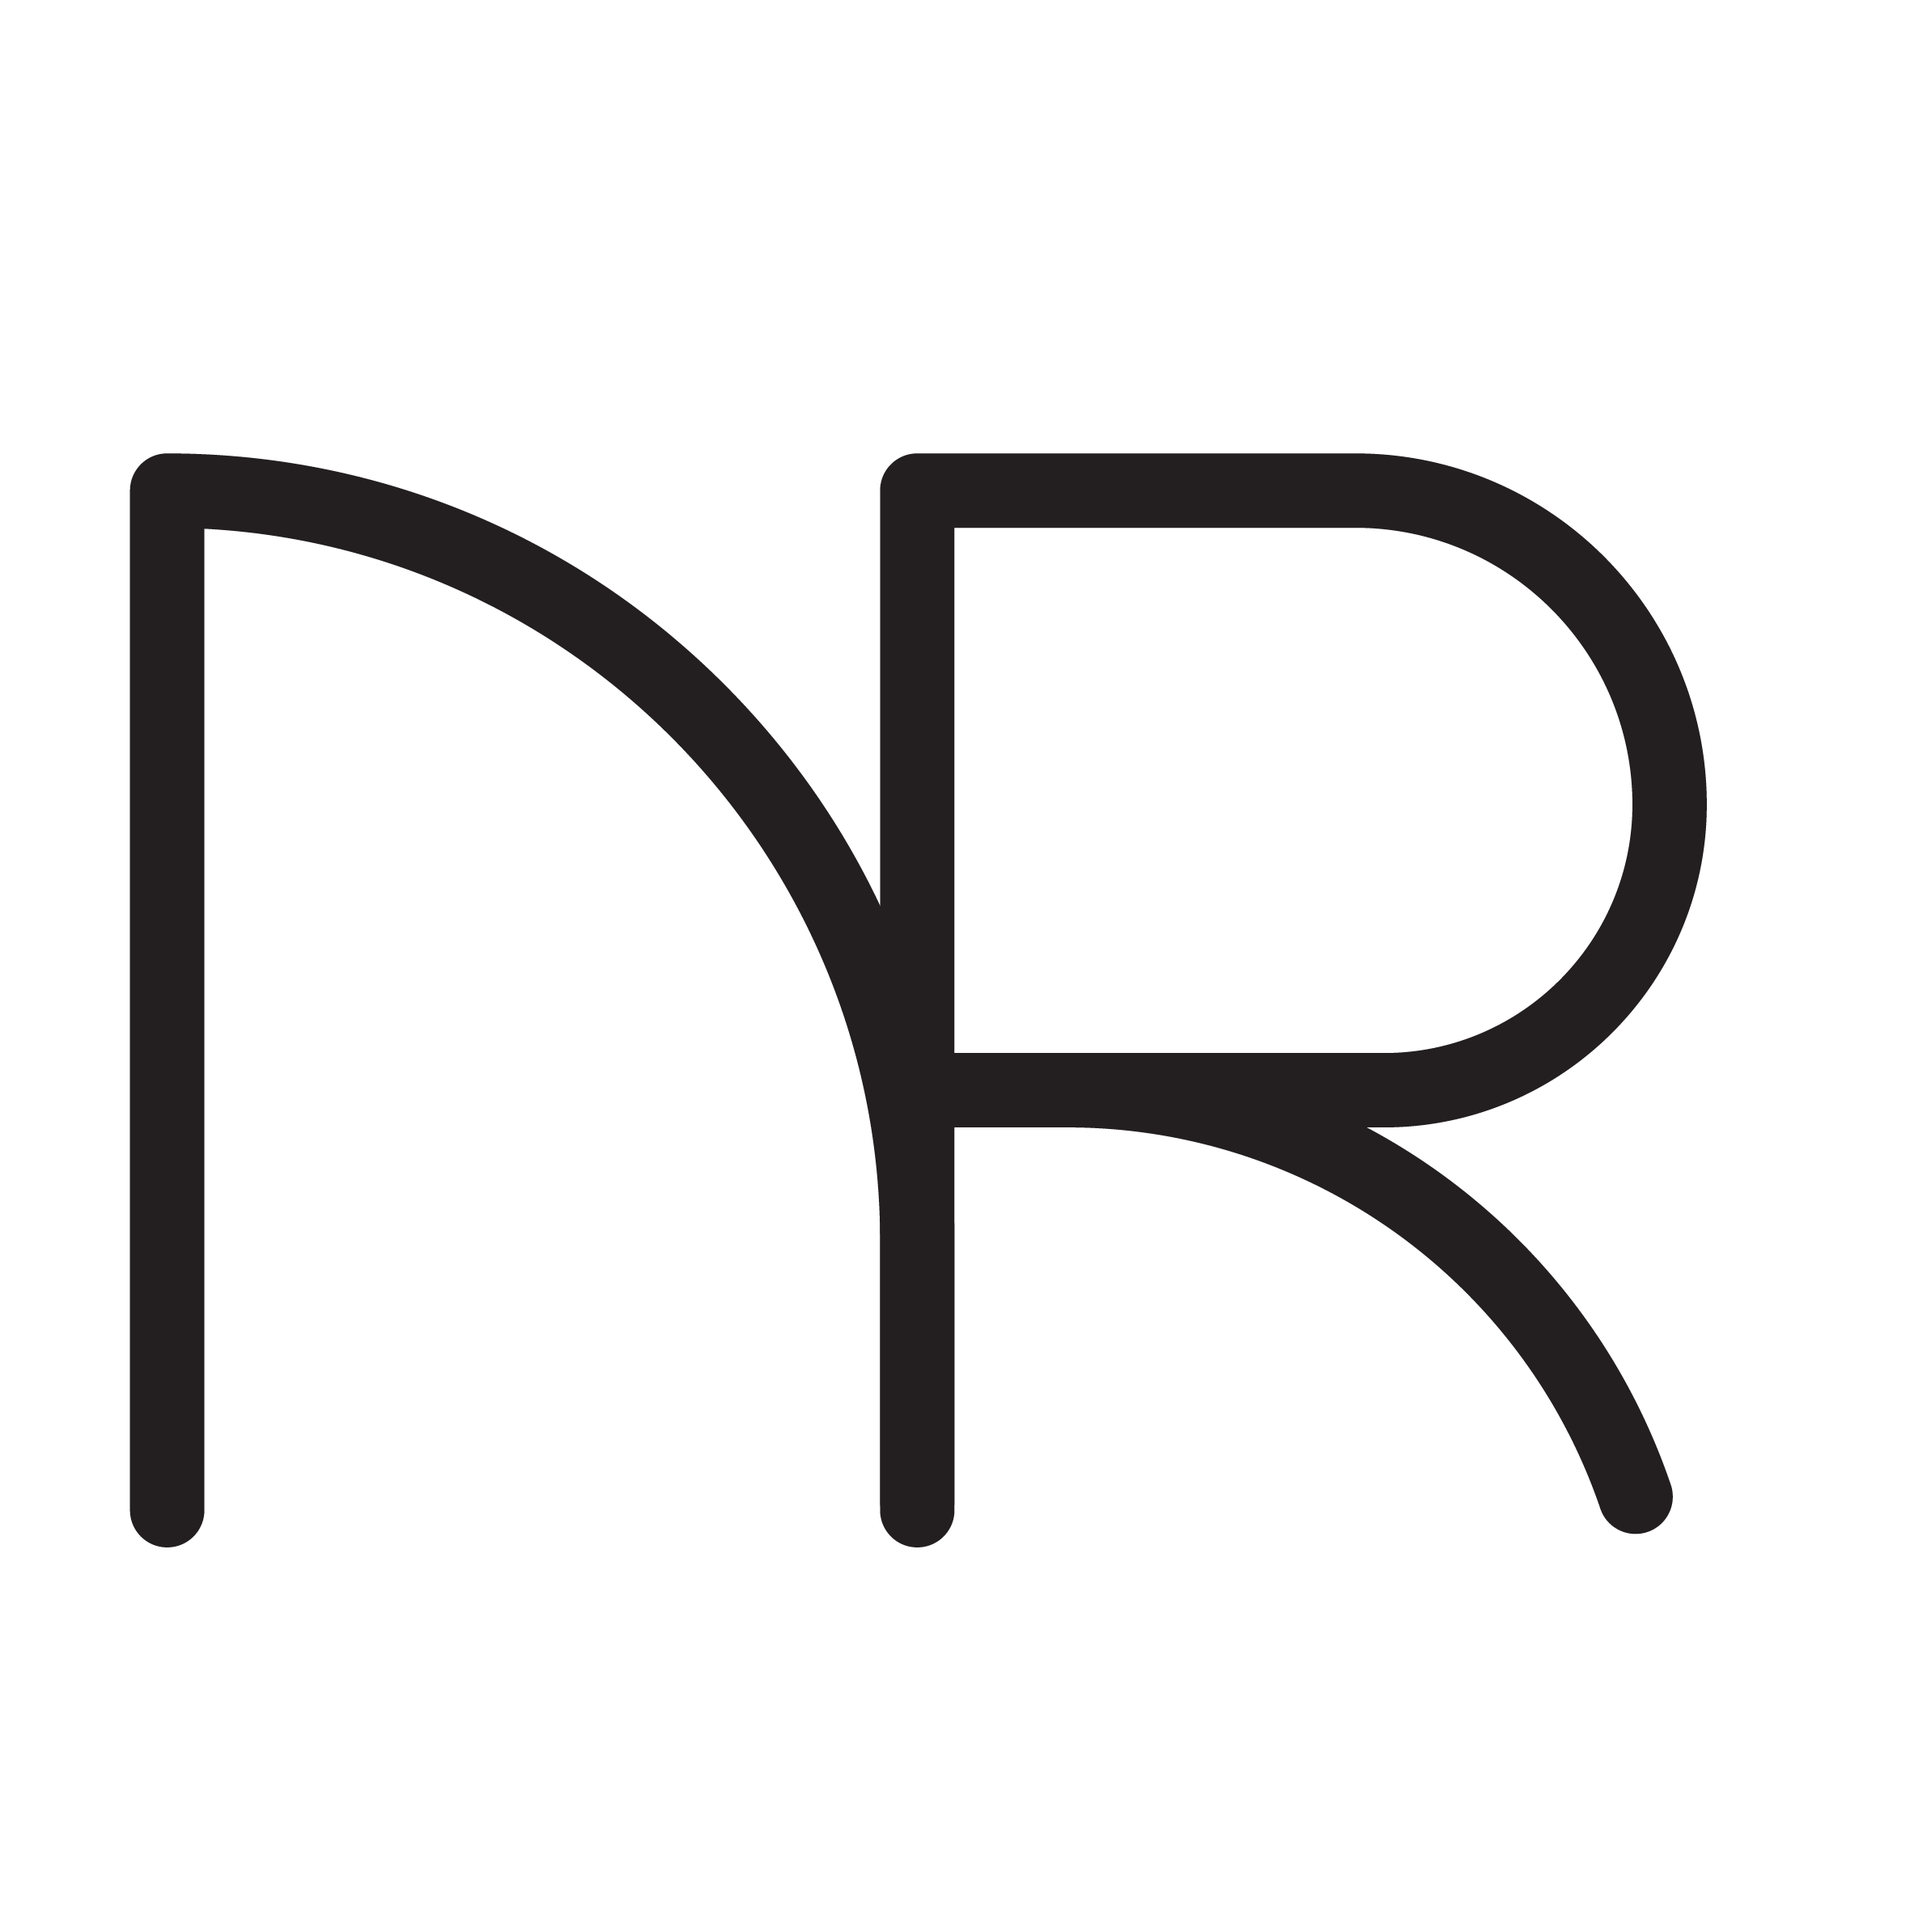
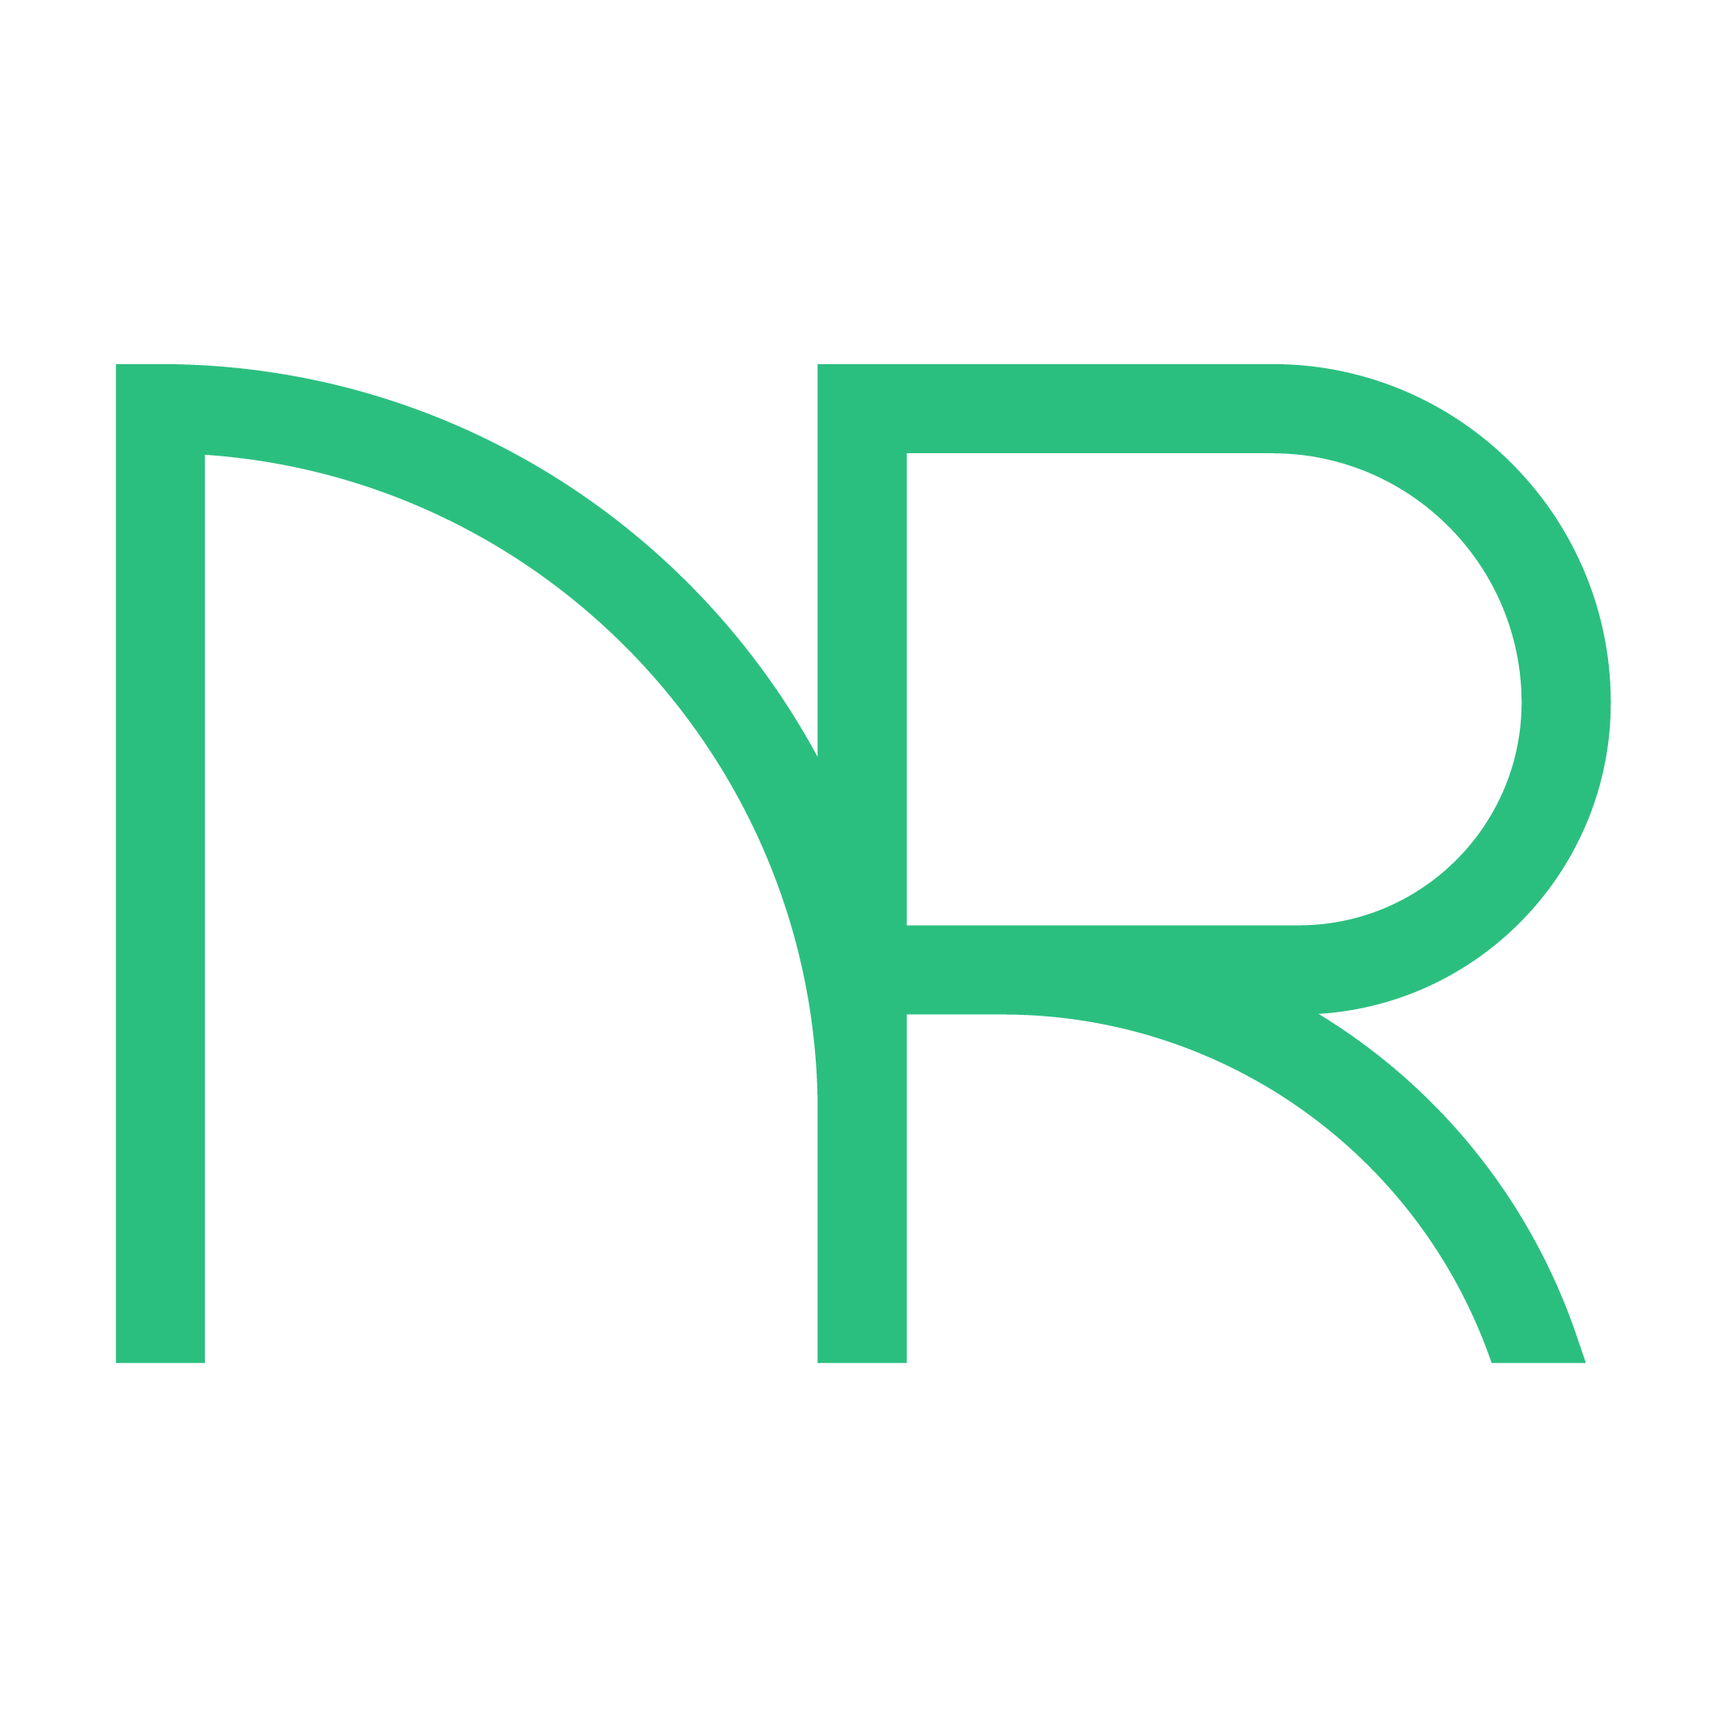
green theme update w css

Changed region(s): [[0.0619, 0.1856, 0.9588, 0.8041]]

diff --git a/assets/scss/custom.scss b/assets/scss/custom.scss
@@ -1,0 +1,9 @@
+h1 {
+  color: #459370;
+}
+p {
+  color: #5F634F;
+}
+h4 {
+  color: #5F634F;
+}
